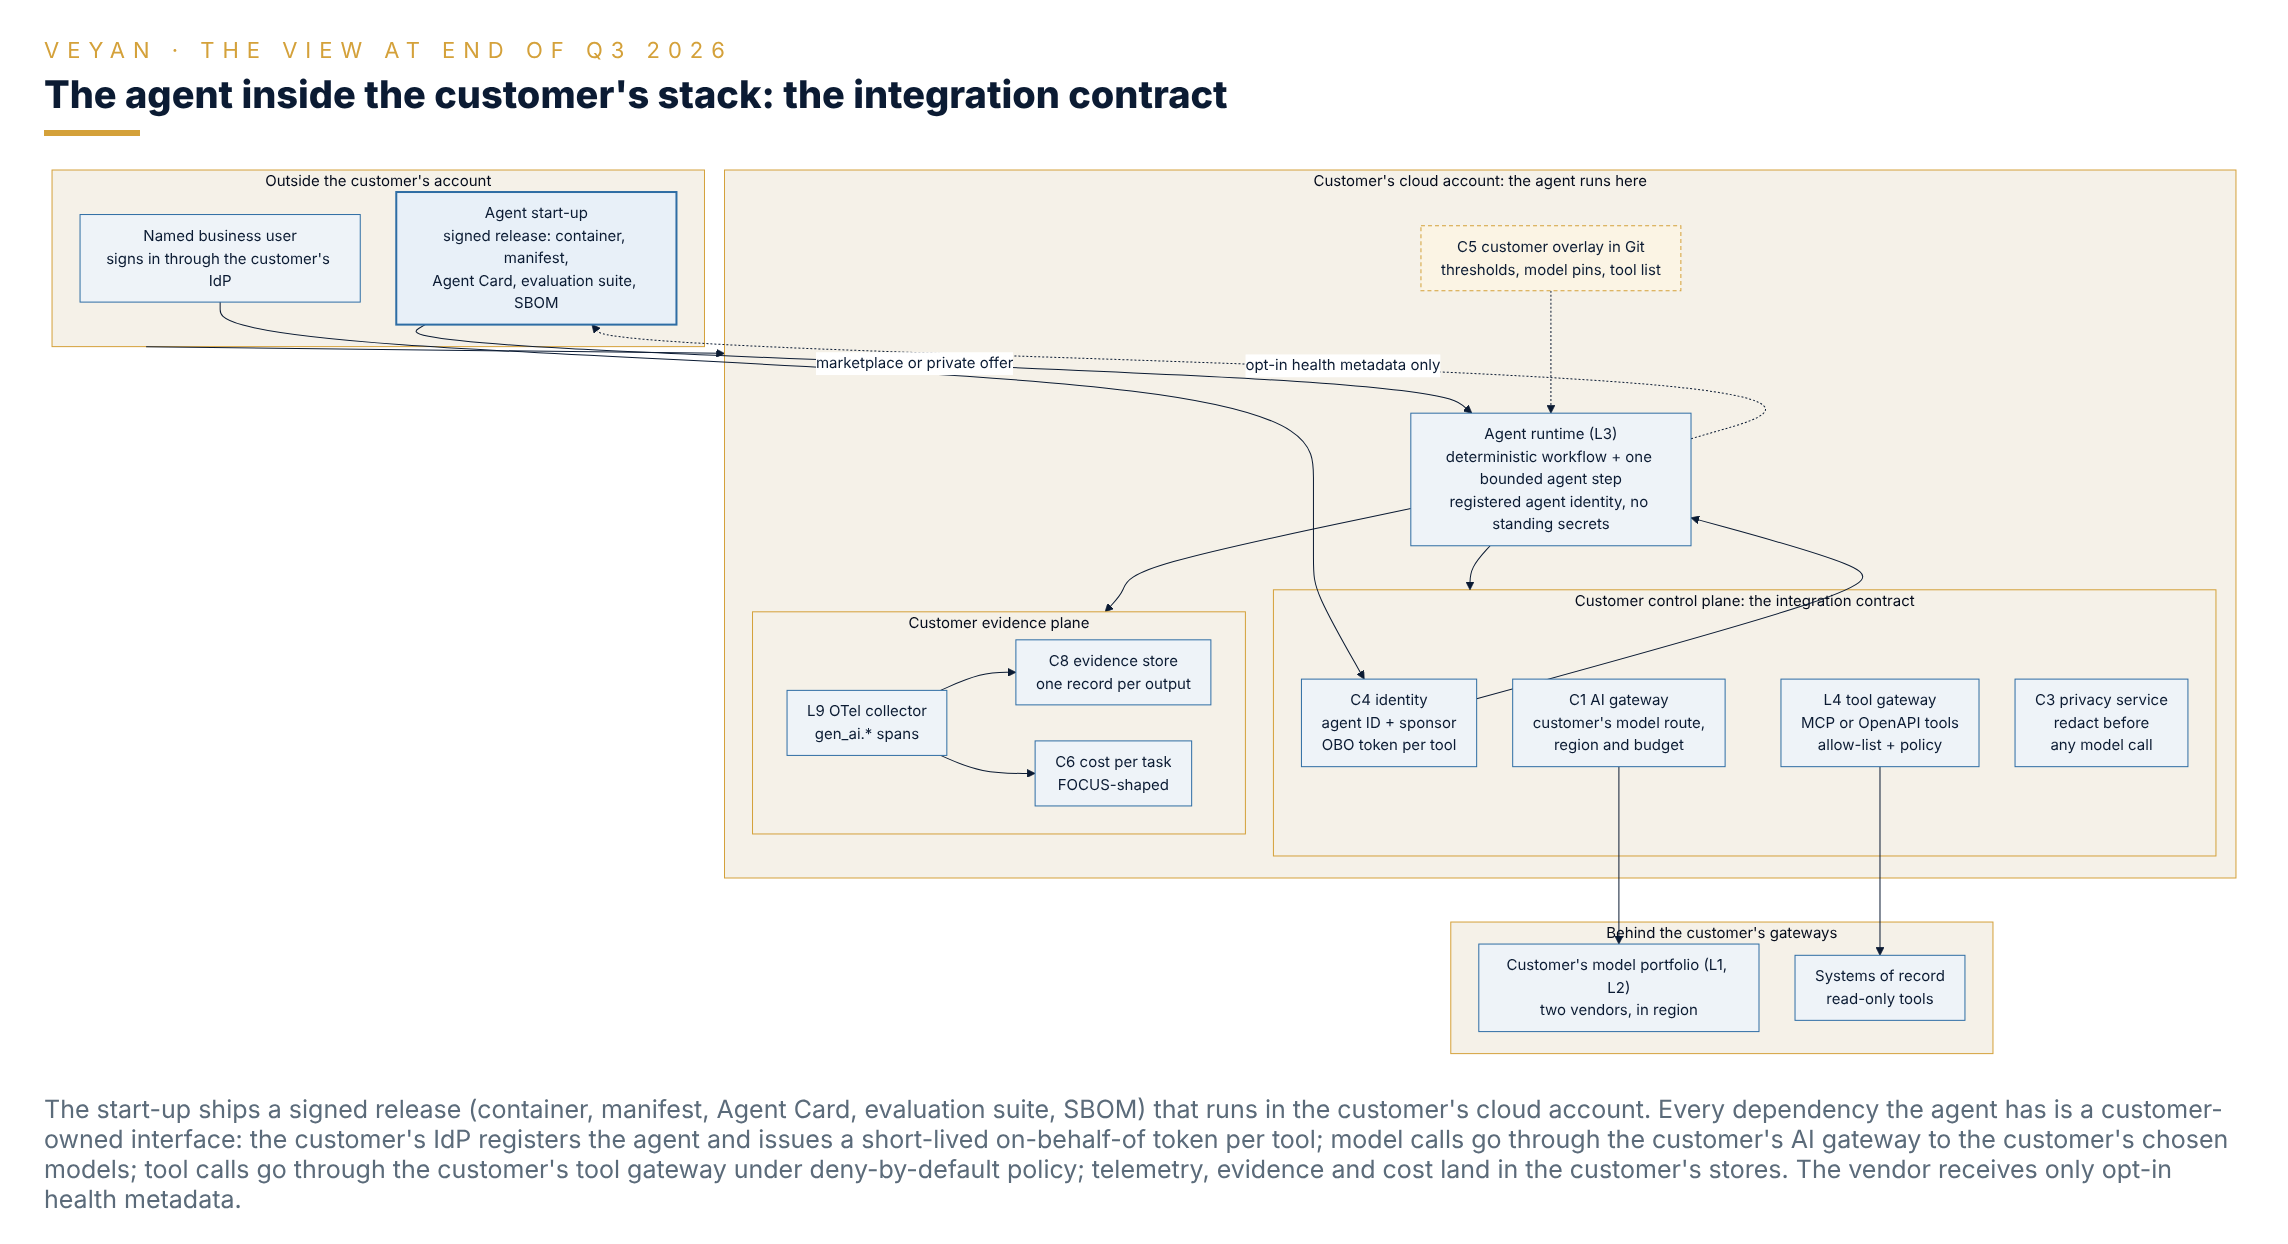
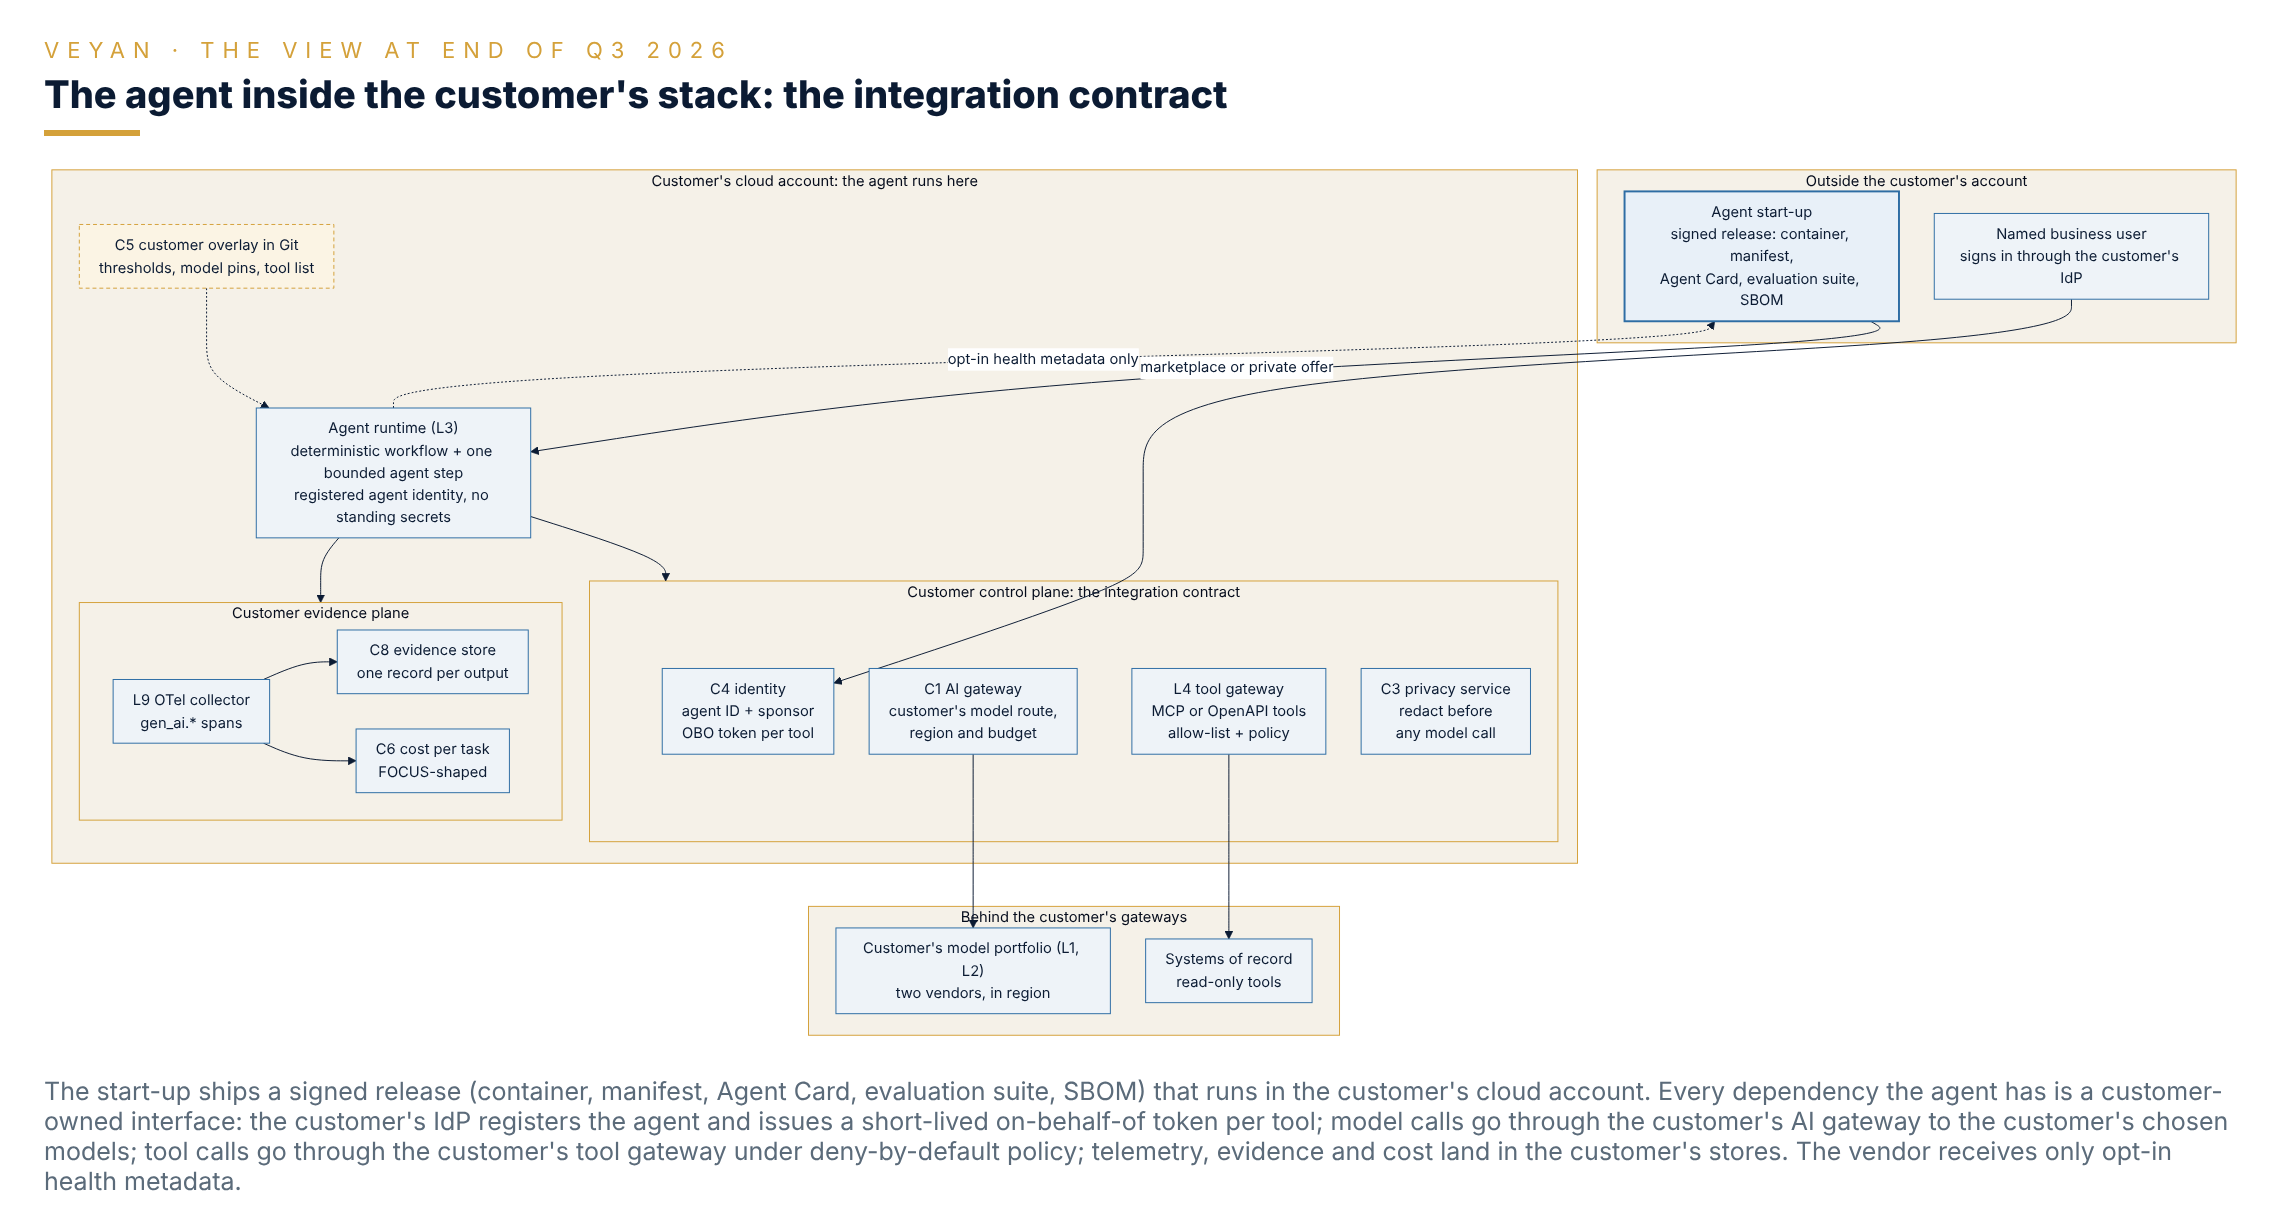
Seven-lenses support: lens strip for post visuals 25-32, calendar 'Views post' slot, book Part IV when chapters exist
Claude-Session: https://claude.ai/code/session_01GYt6k15P64MhHqeyveeQ6D

diff --git a/tools/render_post_visuals.js b/tools/render_post_visuals.js
@@ -19,6 +19,12 @@ const BUILD_FILE = "work/stageC2/worked_example_build.json";
 const BUILD = fs.existsSync(BUILD_FILE) ? JSON.parse(fs.readFileSync(BUILD_FILE, "utf8")) : null;
 function buildStrip(postNo) {
   if (!BUILD || postNo === null || isNaN(postNo)) return "";
+  const lens = (BUILD.lenses || []).find((l) => l.post === postNo);
+  if (lens) {   // "One stack, seven lenses" (Posts 25-32): a strip of the seven views, the current one in gold
+    const views = ["FS", "TS", "SW", "SU", "AT", "DV", "AG"];
+    const chips = views.map((v) => `<span class="c ${lens.view === "ALL" ? "done" : (v === lens.view ? "now" : "")}">${v}</span>`).join("");
+    return `<div class="wx"><span class="lb">Seven lenses · ${lens.label}</span>${chips}</div>`;
+  }
   const step = BUILD.steps.find((s) => s.post === postNo); if (!step) return "";
   const codes = BUILD.codes, cur = codes.indexOf(step.code), all = step.code === "ALL";
   const chips = codes.map((c, i) => {

diff --git a/Enterprise_GenAI_Stack_Oct2026/08_Graphic/diagrams/AG-1.html b/Enterprise_GenAI_Stack_Oct2026/08_Graphic/diagrams/AG-1.html
@@ -37,11 +37,9 @@
     M["Customer's model portfolio (L1, L2)&lt;br/&gt;two vendors, in region"]
     SOR["Systems of record&lt;br/&gt;read-only tools"]
   end
-  OUT --&gt; CS
   V -- "marketplace or private offer" --&gt; AG
   U --&gt; ID
   CFG -.-&gt; AG
-  ID --&gt; AG
   AG --&gt; CP
   GW --&gt; M
   TG --&gt; SOR

diff --git a/tools/build_linkedin_book.py b/tools/build_linkedin_book.py
@@ -2,7 +2,8 @@
 """Assemble the LinkedIn series book (Stage F) from its chapters, ready for tools/build_print_edition.py.
 
 Usage: python3 -I tools/build_linkedin_book.py <repo_root> [--no-print]
-Reads  work/stageF/linkedin_book/chapters/ch00.md … ch24.md   (one chapter per post; brief: work/stage0/12_stageF_linkedin_book_brief.md)
+Reads  work/stageF/linkedin_book/chapters/ch00.md … ch32.md   (one chapter per post; brief: work/stage0/12_stageF_linkedin_book_brief.md;
+                                                               ch25-ch32 = Part IV, "One stack, seven lenses", included when present)
        work/stageC2/worked_example_build.json                 (adds "In the worked example" to every chapter, and Appendix A)
        work/stageF/linkedin_book/glossary.md, about_author.md  (back matter)
 Writes work/stageF/linkedin_book/book.md          (inline claim tags, for editing and review)
@@ -45,18 +46,21 @@ def title(n):
 parts = ["# Part I: The argument\n", chapter(0),
          "# Part II: Nine layers and the controls that make them safe\n"] + [chapter(n) for n in range(1, 19)] + \
         ["# Part III: Putting it together\n"] + [chapter(n) for n in range(19, 25)]
+LENS = [n for n in range(25, 33) if os.path.exists(os.path.join(D, "chapters", "ch%02d.md" % n))]   # "One stack, seven lenses"
+if LENS:
+    parts += ["# Part IV: One stack, seven lenses\n"] + [chapter(n) for n in LENS]
 appA = ["# Appendix A: The worked example, step by step\n", WX["use_case"] + " The series teaches the stack in layer order; "
         "the real build order (evaluation and governance first) is set out at step 20 [AJ].\n",
         "| Step | Stage | What it adds | Must never |", "|---|---|---|---|"]
 appA += ["| %d | %s | %s | %s |" % (s["post"], s["stage"], s["adds"], s["boundary"]) for s in WX["steps"]]
 appB = ["\n# Appendix B: The book at a glance\n", "| Chapter | In one line |", "|---|---|"]
-appB += ["| %s | %s |" % (title(n), one_line(n)) for n in range(0, 25)]
+appB += ["| %s | %s |" % (title(n), one_line(n)) for n in list(range(0, 25)) + LENS]
 back = [open(os.path.join(D, f), encoding="utf-8").read().strip() + "\n" for f in ("glossary.md", "about_author.md") if os.path.exists(os.path.join(D, f))]
 book = "\n\n".join(parts + ["\n".join(appA), "\n".join(appB)] + back)
 book = book.replace("{width=4.4in}", "{width=4.2in}")       # fits the 6 x 9 in text block with room for the caption
 open(os.path.join(D, "book.md"), "w", encoding="utf-8").write(book)
 open(os.path.join(D, "book.pandoc.md"), "w", encoding="utf-8").write(convert_markdown(book, *load_index(".")))
-print(json.dumps({"words": len(re.sub(r"\[[^\]]*\]", "", book).split()), "chapters": 25}))
+print(json.dumps({"words": len(re.sub(r"\[[^\]]*\]", "", book).split()), "chapters": 25 + len(LENS)}))
 if "--no-print" not in sys.argv:
     r = subprocess.run([sys.executable, "-I", "tools/build_print_edition.py", ".", "--config", "tools/print/linkedin_book.json"] +
                        [a for a in sys.argv[2:] if a.startswith("--no-") or a == "--cover-only"], text=True)

diff --git a/tools/build_linkedin_calendar.py b/tools/build_linkedin_calendar.py
@@ -34,7 +34,7 @@ for b in posts:
     m = re.match(r"### Post (\d+)\s*·\s*Week (\d+)\s*·\s*(.+)", head)
     if not m: continue
     n, wk, theme = int(m.group(1)), int(m.group(2)), m.group(3).strip()
-    day = "Introduction" if n == 0 else ("Stack post" if n % 2 else "Control post")
+    day = "Introduction" if n == 0 else ("Views post" if n >= 25 else ("Stack post" if n % 2 else "Control post"))   # 25-32: "One stack, seven lenses"
     full = sub(b, "Full post")
     hook = next((l.strip() for l in full.split("\n") if l.strip()), "")
     rows.append(dict(n=n, week=wk, day=day, theme=theme, pair=field(b, "Pair"), tension=field(b, "Tension"), hook=hook[:300],
@@ -55,7 +55,7 @@ for c in ws[3]:
     c.font = Font(bold=True, color="FFFFFF"); c.fill = PatternFill("solid", fgColor="1F3864"); c.alignment = Alignment(wrap_text=True, vertical="top")
 for r in sorted(rows, key=lambda x: x["n"]):
     i = ws.max_row + 1
-    off = -3 if r["n"] == 0 else (r["week"] - 1) * 7 + (0 if r["day"] == "Stack post" else 2)
+    off = -3 if r["n"] == 0 else (r["week"] - 1) * 7 + (0 if r["n"] % 2 else 2)
     wx = WXS.get(r["n"], {})
     ws.append([r["n"], r["week"], r["day"], '=IF($E$1="","",$E$1+%d)' % off, "08:00", r["theme"], (wx.get("stage", "") + ": " + wx.get("adds", "")) if wx else "", r["pair"], r["tension"], r["hook"], r["words"],
                r["tags"], r["visual"], r["reverify"], "Draft", "Not required (CP4b)", "", "",

diff --git a/Enterprise_GenAI_Stack_Oct2026/08_Graphic/diagrams/AG-1.md b/Enterprise_GenAI_Stack_Oct2026/08_Graphic/diagrams/AG-1.md
@@ -33,11 +33,9 @@ flowchart TD
     M["Customer's model portfolio (L1, L2)<br/>two vendors, in region"]
     SOR["Systems of record<br/>read-only tools"]
   end
-  OUT --> CS
   V -- "marketplace or private offer" --> AG
   U --> ID
   CFG -.-> AG
-  ID --> AG
   AG --> CP
   GW --> M
   TG --> SOR
